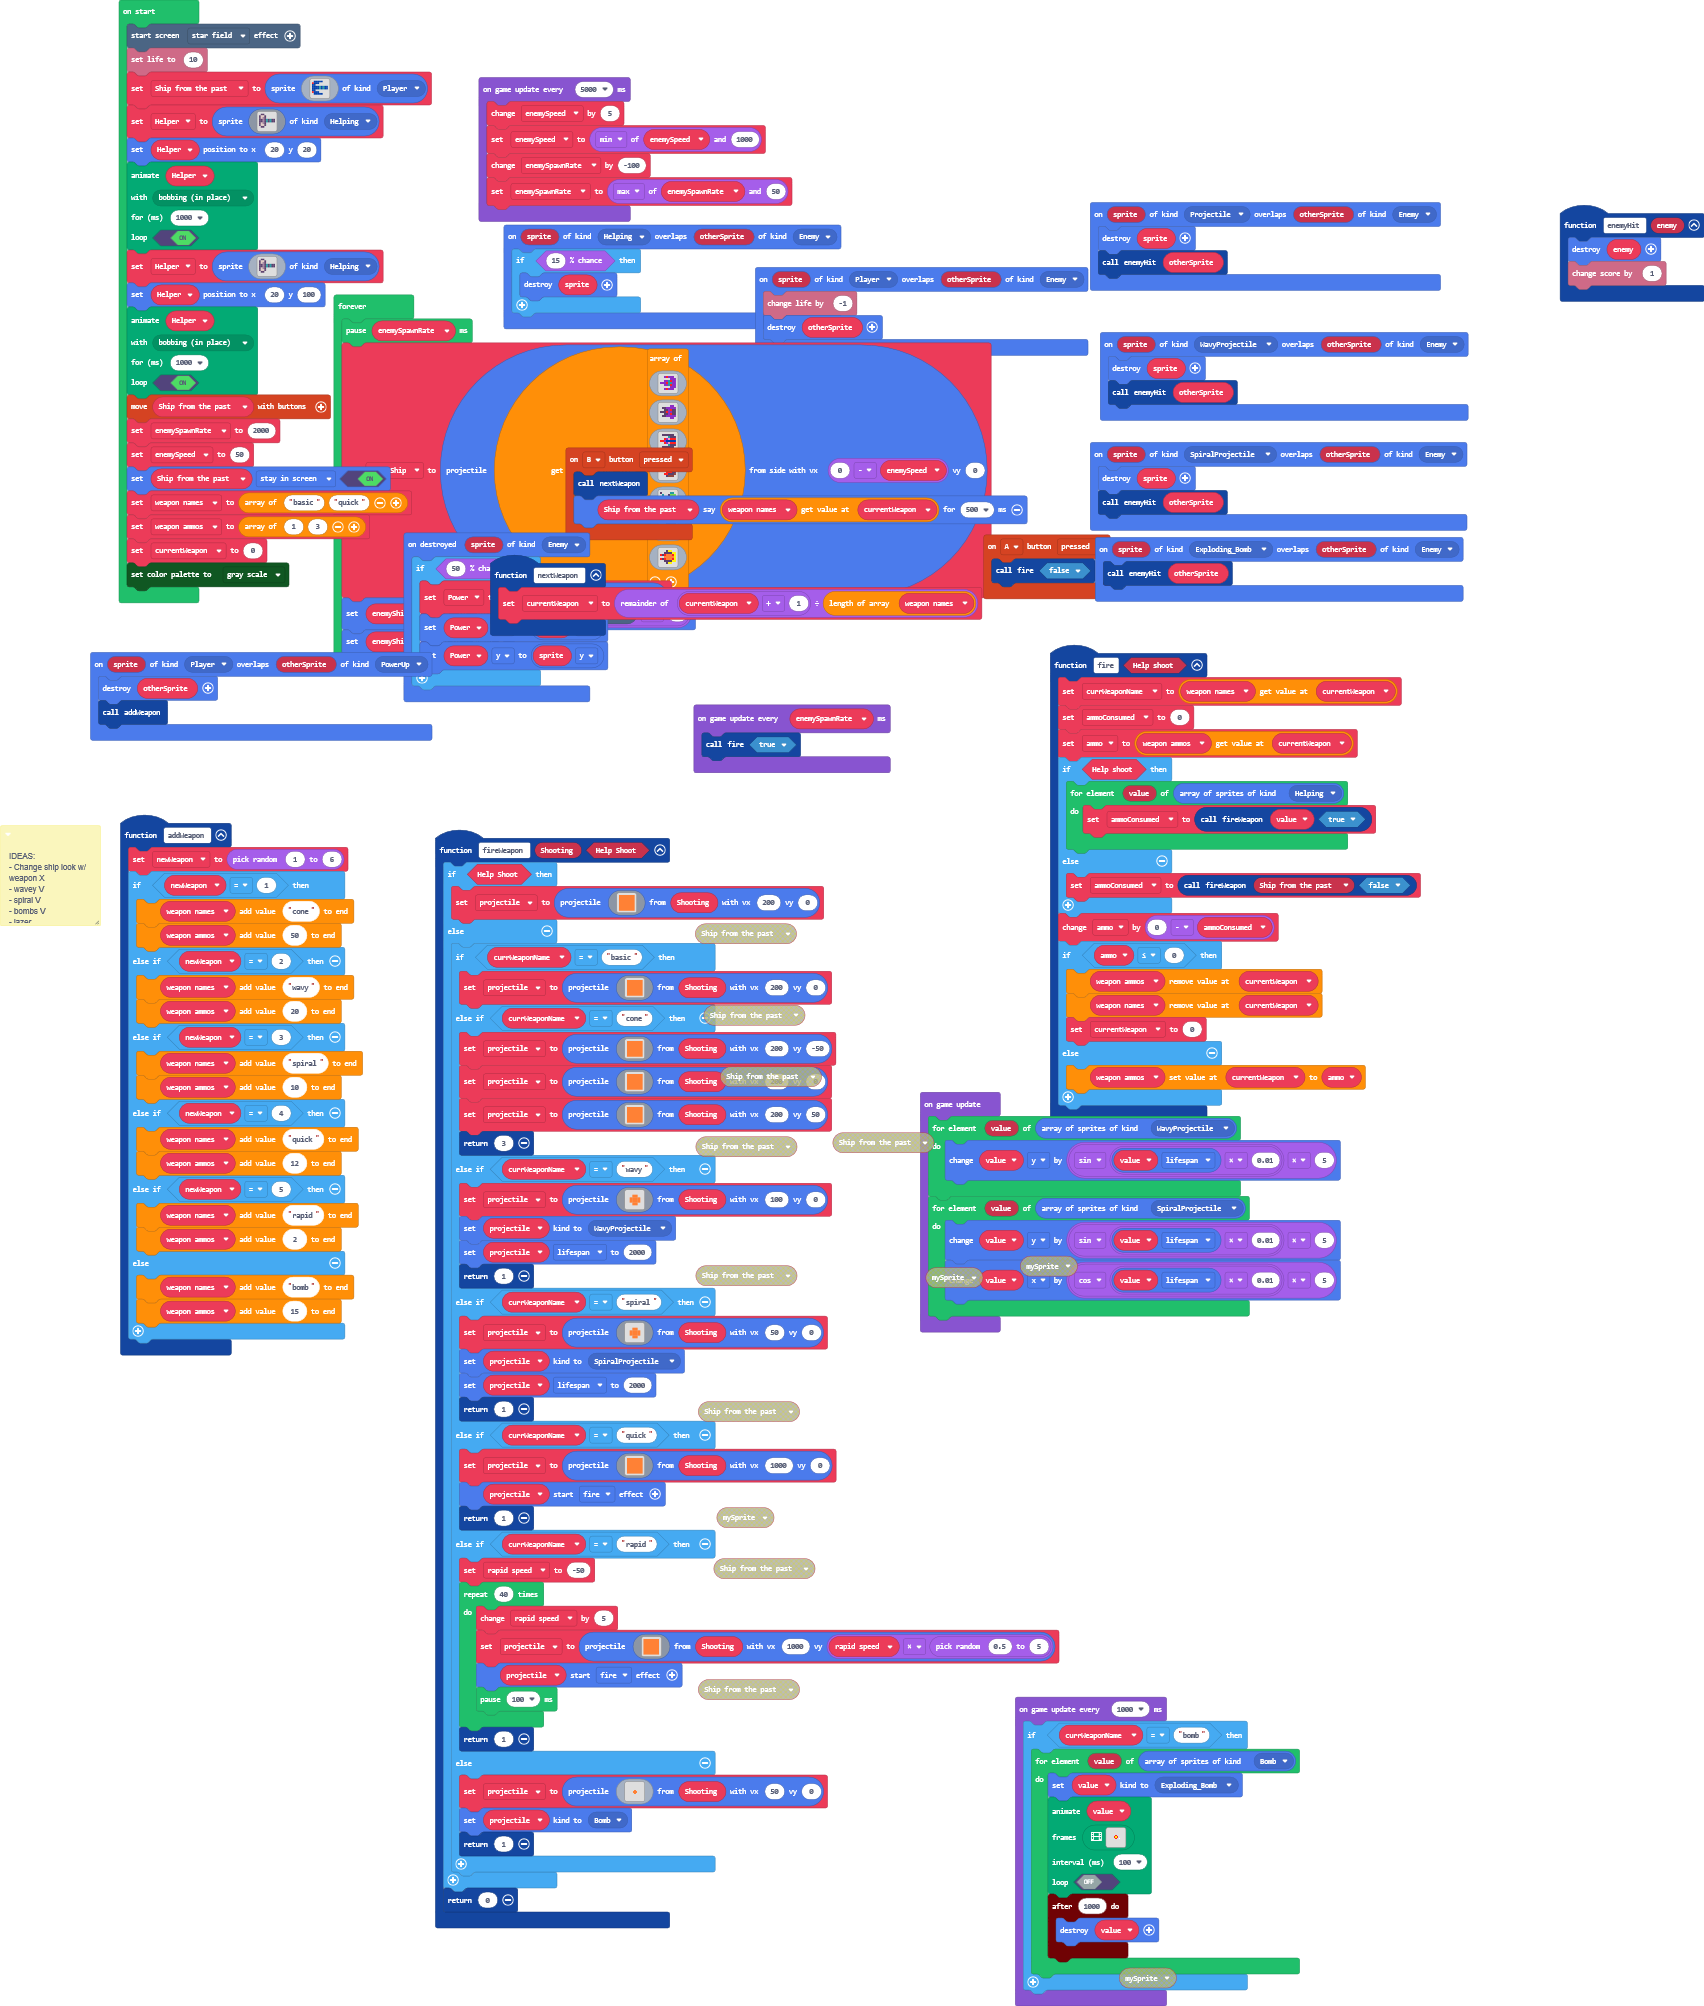
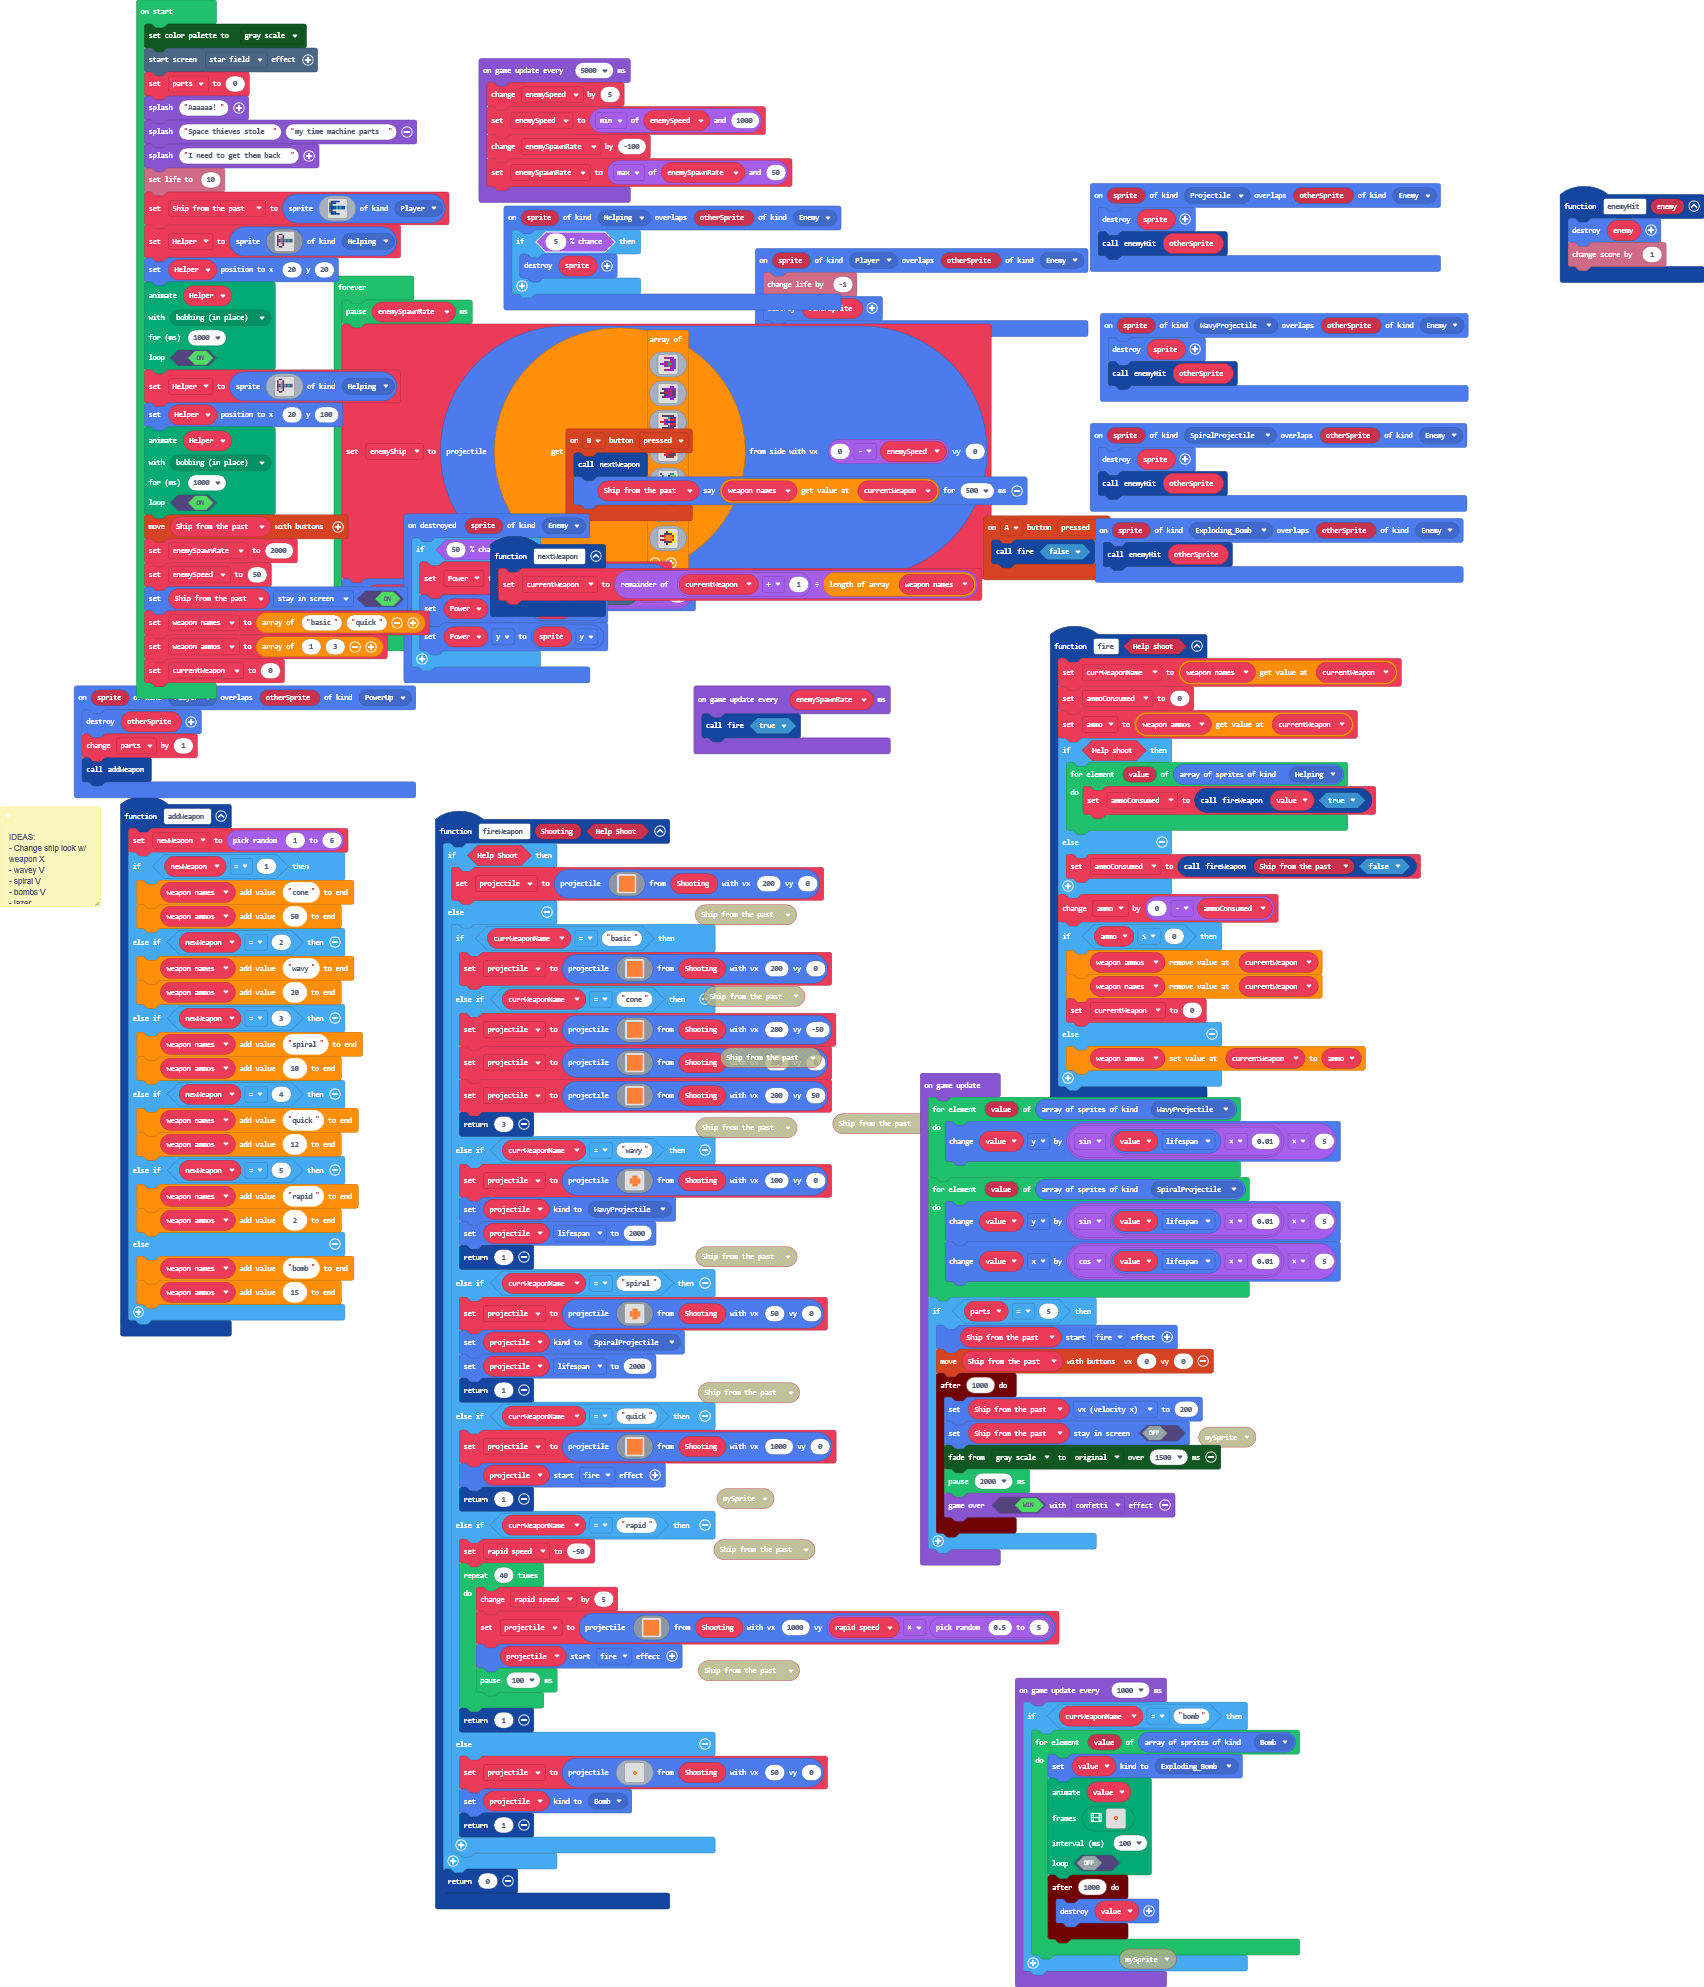
Made you win when you get 5 parts & made some scenes

Changed region(s): [[0.0, 0.0, 0.8709, 0.9673], [0.902, 0.0936, 1.0, 0.156], [0.4043, 0.3432, 0.5288, 0.4056]]

diff --git a/main.ts b/main.ts
@@ -6,23 +6,6 @@ namespace SpriteKind {
     export const Exploding_Bomb = SpriteKind.create()
     export const Helping = SpriteKind.create()
 }
-/**
- * IDEAS:
- * 
- * - Change ship look w/ weapon X
- * 
- * - wavey V
- * 
- * - spiral V
- * 
- * - bombs V
- * 
- * - lazer
- * 
- * - homing missile
- * 
- * -
- */
 controller.B.onEvent(ControllerButtonEvent.Pressed, function () {
     nextWeapon()
     Ship_from_the_past.say(weapon_names[currentWeapon], 500)
@@ -55,12 +38,30 @@ controller.A.onEvent(ControllerButtonEvent.Pressed, function () {
     fire(false)
 })
 sprites.onOverlap(SpriteKind.Helping, SpriteKind.Enemy, function (sprite, otherSprite) {
-    if (Math.percentChance(15)) {
+    if (Math.percentChance(5)) {
         sprite.destroy()
     }
 })
+/**
+ * IDEAS:
+ * 
+ * - Change ship look w/ weapon X
+ * 
+ * - wavey V
+ * 
+ * - spiral V
+ * 
+ * - bombs V
+ * 
+ * - lazer
+ * 
+ * - homing missile
+ * 
+ * -
+ */
 sprites.onOverlap(SpriteKind.Player, SpriteKind.PowerUp, function (sprite, otherSprite) {
     otherSprite.destroy()
+    parts += 1
     addWeapon()
 })
 function addWeapon () {
@@ -229,7 +230,14 @@ let currentWeapon = 0
 let weapon_ammos: number[] = []
 let weapon_names: string[] = []
 let Ship_from_the_past: Sprite = null
+color.setPalette(
+color.GrayScale
+)
 effects.starField.startScreenEffect()
+let parts = 0
+game.splash("Aaaaaa!")
+game.splash("Space thieves stole", "my time machine parts")
+game.splash("I need to get them back")
 info.setLife(10)
 Ship_from_the_past = sprites.create(img`
     . 8 8 8 8 8 . . . 
@@ -282,9 +290,6 @@ Ship_from_the_past.setFlag(SpriteFlag.StayInScreen, true)
 weapon_names = ["basic", "quick"]
 weapon_ammos = [1, 3]
 currentWeapon = 0
-color.setPalette(
-color.GrayScale
-)
 game.onUpdate(function () {
     for (let value of sprites.allOfKind(SpriteKind.WavyProjectile)) {
         value.y += Math.sin(value.lifespan * 0.01) * 5
@@ -292,6 +297,17 @@ game.onUpdate(function () {
     for (let value of sprites.allOfKind(SpriteKind.SpiralProjectile)) {
         value.y += Math.sin(value.lifespan * 0.01) * 5
         value.x += Math.cos(value.lifespan * 0.01) * 5
+    }
+    if (parts == 5) {
+        Ship_from_the_past.startEffect(effects.fire)
+        controller.moveSprite(Ship_from_the_past, 0, 0)
+        timer.after(1000, function () {
+            Ship_from_the_past.vx = 200
+            Ship_from_the_past.setStayInScreen(false)
+            color.startFade(color.GrayScale, color.originalPalette, 1500)
+            pause(2000)
+            game.over(true, effects.confetti)
+        })
     }
 })
 game.onUpdateInterval(5000, function () {
